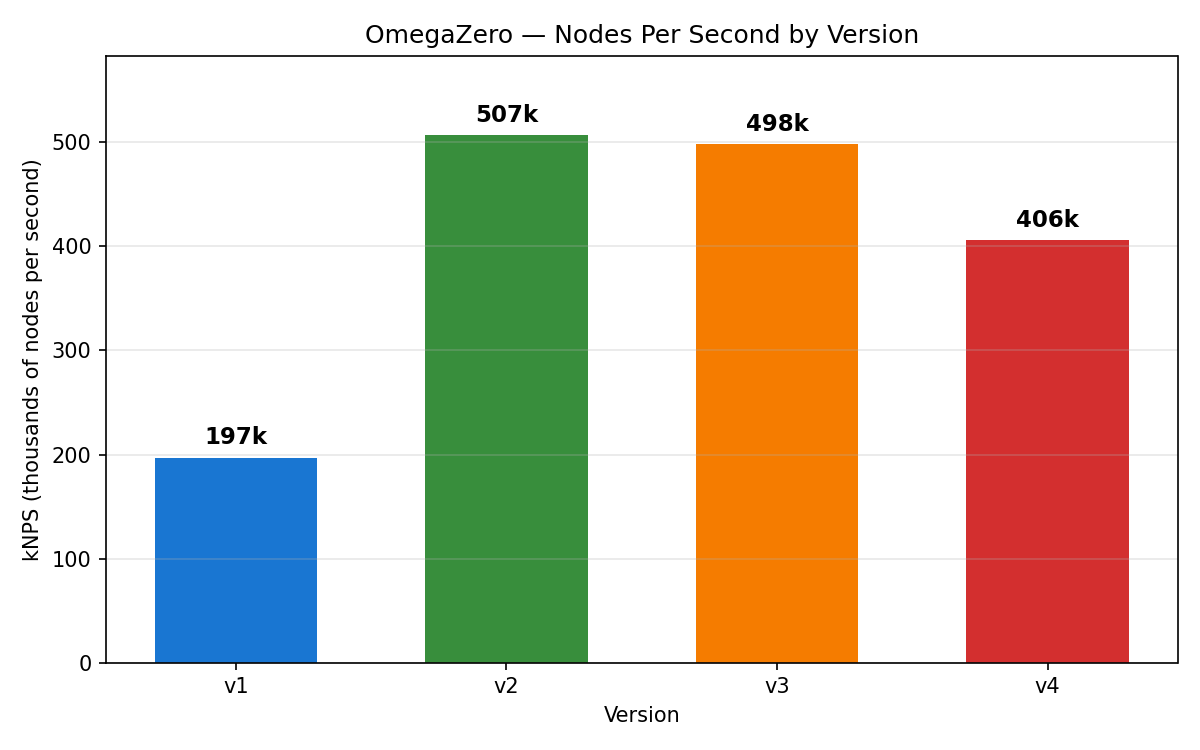
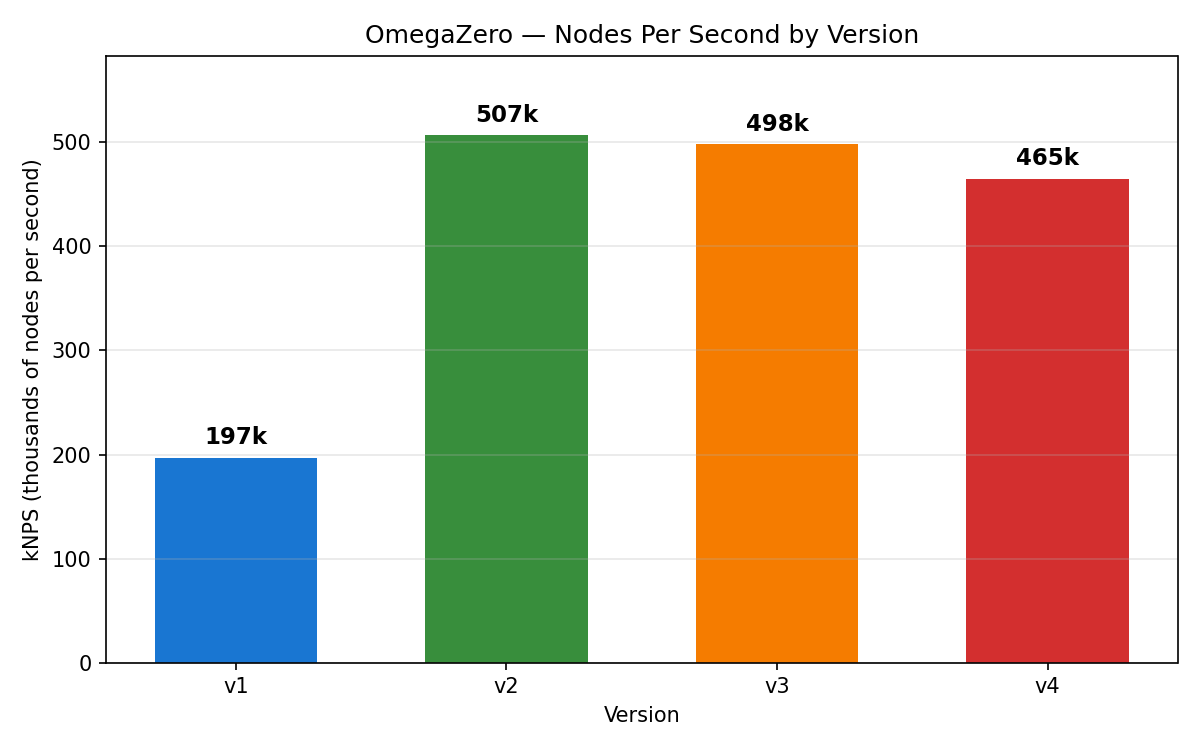
Fix SEE evaluation and heap corruption bugs

Changed region(s): [[0.8017, 0.184, 0.9558, 0.3373]]

diff --git a/src/engine.h b/src/engine.h
@@ -145,7 +145,7 @@ class Engine {
                             int ply) -> bool;
   auto ShouldSeePrune(const Move& move, int depth, bool at_pv_node,
                        bool gives_check, bool in_check,
-                       int& see_val) -> bool;
+                       int see_val) -> bool;
   auto SearchMove(int alpha, int beta, int depth, int ply, int legal_moves,
                    bool at_pv_node, bool gives_check, const Move& move,
                    S8 player_to_move, int& see_val) -> int;
@@ -218,9 +218,7 @@ inline auto Engine::InEndgame() const -> bool {
 }
 
 inline auto Engine::IsKillerMove(const Move& move, int ply) const -> bool {
-  if (ply < 0 || ply >= kSearchLimit) {
-    throw invalid_argument("ply in Engine::IsKillerMove()");
-  }
+  if (ply < 0 || ply >= kSearchLimit) return false;
 
   return killer_moves_[ply].first == move || killer_moves_[ply].second == move;
 }
@@ -273,7 +271,7 @@ inline auto Engine::CheckSearchTime() -> void {
 }
 
 inline auto Engine::RecordKillerMove(const Move& move, int ply) -> void {
-  assert(ply >= 0 && ply < kSearchLimit);
+  if (ply < 0 || ply >= kSearchLimit) return;
   if (move != killer_moves_[ply].first && move != killer_moves_[ply].second) {
     killer_moves_[ply].second = killer_moves_[ply].first;
     killer_moves_[ply].first = move;
@@ -308,12 +306,11 @@ inline auto Engine::ShouldLateMovePrune(const Move& move,
 
 inline auto Engine::ShouldSeePrune(const Move& move, int depth,
                                    bool at_pv_node, bool gives_check,
-                                   bool in_check, int& see_val) -> bool {
+                                   bool in_check, int see_val) -> bool {
   if (at_pv_node || depth > kMaxSeePruningDepth || move.captured_piece == kNA
       || gives_check || in_check) {
     return false;
   }
-  see_val = board_->GetSee(move);
   return see_val < -depth * 100;
 }
 

diff --git a/src/engine.cc b/src/engine.cc
@@ -491,6 +491,11 @@ auto Engine::NegamaxSearch(Move& pv_move, int alpha, int beta, int depth,
       continue;
     }
 
+    int see_val = kWorstEval;
+    if (move.captured_piece != kNA) {
+      see_val = board_->GetSee(move);
+    }
+
     try {
       board_->MakeMove(move);
     } catch (BadMove& e) {
@@ -508,7 +513,6 @@ auto Engine::NegamaxSearch(Move& pv_move, int alpha, int beta, int depth,
       continue;
     }
 
-    int see_val = kWorstEval;
     if (ShouldSeePrune(move, depth, at_pv_node, gives_check, in_check,
                        see_val)) {
       board_->UnmakeMove(move);
@@ -525,9 +529,6 @@ auto Engine::NegamaxSearch(Move& pv_move, int alpha, int beta, int depth,
         && !gives_check && depth >= kMinReductionDepth) {
       bool should_reduce = (move.captured_piece == kNA);
       if (!should_reduce && move.captured_piece != kNA) {
-        if (see_val == kWorstEval) {
-          see_val = board_->GetSee(move);
-        }
         should_reduce = (see_val < 0);
       }
       if (should_reduce) {

diff --git a/scripts/elo_test.py b/scripts/elo_test.py
@@ -278,7 +278,7 @@ def generate_plots(output_dir, version=None):
     print("\nGenerating plots...")
 
     # --- Plot 1: NPS by version (bar chart) ---
-    nps_data = {"v1": 197, "v2": 507, "v3": 498}
+    nps_data = {"v1": 197, "v2": 507, "v3": 498, "v4": 465}
     if benchmark_csv.exists():
         with open(benchmark_csv) as f:
             reader = csv.DictReader(f)

diff --git a/README.md b/README.md
@@ -395,11 +395,11 @@ The table below shows how each search feature contributes when stacked cumulativ
 *Search Feature Stacking Benchmark (5s/position)*
 | Position | No Features | + LMR | + NMP + History | + RFP | + SEE | + Futility | + LMP | + Countermove | + Hist LMR |
 |----------|-------------|-------|-----------------|-------|-------|------------|-------|---------------|------------|
-| opening  | 1084k, d6   | 997k, d8  | 906k, d12 | 911k, d11 | 537k, d12 | 508k, d14 | 431k, d14 | 472k, d14 | 512k, d13 |
-| midgame  | 838k, d5    | 617k, d6  | 569k, d6  | 1085k, d7 | 767k, d11 | 486k, d11 | 410k, d13 | 439k, d12 | 434k, d13 |
-| kiwipete | 532k, d4    | 173k, d3  | 174k, d3  | 518k, d5  | 157k, d5  | 134k, d5  | 148k, d6  | 148k, d6  | 145k, d6  |
-| endgame  | 795k, d10   | 781k, d14 | 782k, d18 | 785k, d17 | 779k, d17 | 772k, d17 | 618k, d18 | 593k, d17 | 532k, d18 |
-| **Avg NPS** | **812k** | **641k** | **608k** | **825k** | **560k** | **475k** | **402k** | **413k** | **406k** |
+| opening  | 1084k, d6   | 997k, d8  | 906k, d12 | 911k, d11 | 636k, d10 | 598k, d11 | 406k, d13 | 414k, d15 | 517k, d13 |
+| midgame  | 838k, d5    | 617k, d6  | 569k, d6  | 1085k, d7 | 705k, d10 | 512k, d11 | 463k, d14 | 406k, d14 | 432k, d12 |
+| kiwipete | 532k, d4    | 173k, d3  | 174k, d3  | 518k, d5  | 309k, d7  | 217k, d9  | 183k, d7  | 183k, d7  | 233k, d8  |
+| endgame  | 795k, d10   | 781k, d14 | 782k, d18 | 785k, d17 | 782k, d15 | 795k, d17 | 705k, d17 | 758k, d16 | 678k, d15 |
+| **Avg NPS** | **812k** | **641k** | **608k** | **825k** | **608k** | **531k** | **439k** | **440k** | **465k** |
 
 #### Opening Book
 
